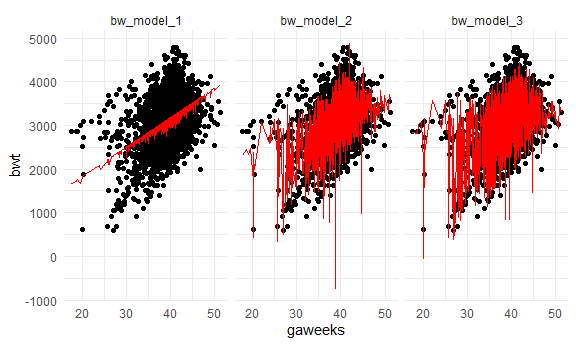
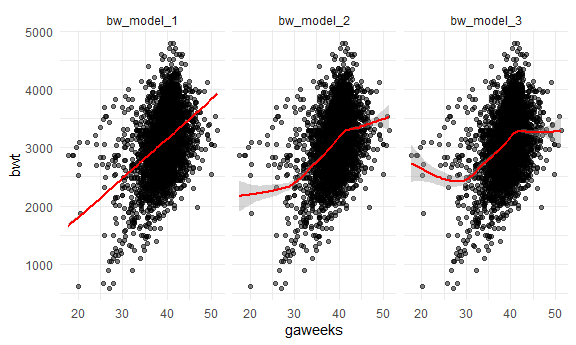
P3 completed

diff --git a/p8105_hw6_ms5965.md b/p8105_hw6_ms5965.md
@@ -156,10 +156,12 @@ bw_df %>%
   gather_predictions(bw_model_1, bw_model_2, bw_model_3) %>% 
   mutate(model = fct_inorder(model)) %>% 
   ggplot(aes(x = gaweeks, y = bwt)) + 
-  geom_point() + 
-  geom_line(aes(y = pred), color = "red") + 
-  facet_wrap(~model)
+  geom_point(alpha = 0.5) + 
+  geom_smooth(aes(y = pred), color = "red") + 
+  facet_grid(~model)
 ```
+
+    ## `geom_smooth()` using method = 'gam' and formula 'y ~ s(x, bs = "cs")'
 
 <img src="p8105_hw6_ms5965_files/figure-gfm/unnamed-chunk-7-1.png" width="90%" />
 
@@ -187,9 +189,107 @@ cv_df =
     values_to = "rmse",
     names_prefix = "rmse_") %>% 
   mutate(model = fct_inorder(model)) %>% 
-  ggplot(aes(x = model, y = rmse)) + geom_violin()
+  ggplot(aes(x = model, y = rmse, color = model)) + geom_violin()
   
 cv_df
 ```
 
 <img src="p8105_hw6_ms5965_files/figure-gfm/unnamed-chunk-8-1.png" width="90%" />
+
+## Problem 3
+
+``` r
+weather_df = 
+  rnoaa::meteo_pull_monitors(
+    c("USW00094728"),
+    var = c("PRCP", "TMIN", "TMAX"), 
+    date_min = "2017-01-01",
+    date_max = "2017-12-31") %>%
+  mutate(
+    name = recode(id, USW00094728 = "CentralPark_NY"),
+    tmin = tmin / 10,
+    tmax = tmax / 10) %>%
+  select(name, id, everything())
+```
+
+    ## Registered S3 method overwritten by 'hoardr':
+    ##   method           from
+    ##   print.cache_info httr
+
+    ## using cached file: C:\Users\mehrs\AppData\Local\cache/R/noaa_ghcnd/USW00094728.dly
+
+    ## date created (size, mb): 2020-10-07 23:59:17 (7.54)
+
+    ## file min/max dates: 1869-01-01 / 2020-10-31
+
+``` r
+boot_sample = function(df) {
+  sample_frac(df, replace = TRUE)
+}
+```
+
+``` r
+boot_straps = 
+  data_frame(
+    strap_number = 1:5000,
+    strap_sample = rerun(5000, boot_sample(weather_df))
+  )
+```
+
+    ## Warning: `data_frame()` is deprecated as of tibble 1.1.0.
+    ## Please use `tibble()` instead.
+    ## This warning is displayed once every 8 hours.
+    ## Call `lifecycle::last_warnings()` to see where this warning was generated.
+
+``` r
+bootstrap_results = 
+  boot_straps %>% 
+  mutate(
+    models = map(strap_sample, ~lm(tmax ~ tmin, data = .x)),
+    results = map(models, broom::tidy),  
+    r2 = map(models, broom::glance)) %>% 
+  select(-strap_sample, -models) %>% 
+  unnest(r2) %>% 
+  mutate(
+    r_squared = r.squared,
+    r2_0.025 = quantile(r.squared, 0.025),
+    r2_0.975 = quantile(r.squared, 0.975)
+  ) %>% 
+  select(-p.value, -statistic) %>% 
+  unnest(results) %>% 
+  mutate(
+    log_estimate = log(estimate),
+    est_0.25 = quantile(log_estimate, 0.025),
+    est_0.25 = quantile(log_estimate, 0.975)
+  ) %>% 
+  ggplot(aes(x = log_estimate)) + geom_density()
+```
+
+The distribution of the estimates in an inverted parabola.
+
+``` r
+bootstrap_results_1 = 
+  boot_straps %>% 
+  mutate(
+    models = map(strap_sample, ~lm(tmax ~ tmin, data = .x)),
+    results = map(models, broom::tidy),  
+    r2 = map(models, broom::glance)) %>% 
+  select(-strap_sample, -models) %>% 
+  unnest(r2) %>% 
+  mutate(
+    r_squared = r.squared,
+    r2_0.025 = quantile(r.squared, 0.025),
+    r2_0.975 = quantile(r.squared, 0.975)
+  ) %>% 
+  select(-p.value, -statistic) %>% 
+  unnest(results) %>% 
+  mutate(
+    log_estimate = log(estimate),
+    est_0.25 = quantile(log_estimate, 0.025),
+    est_0.25 = quantile(log_estimate, 0.975)
+  ) %>% 
+  ggplot(aes(x = r_squared)) + geom_density()
+```
+
+The distribution of r-squares is almost normally distributed with a
+small bulge on the left.
